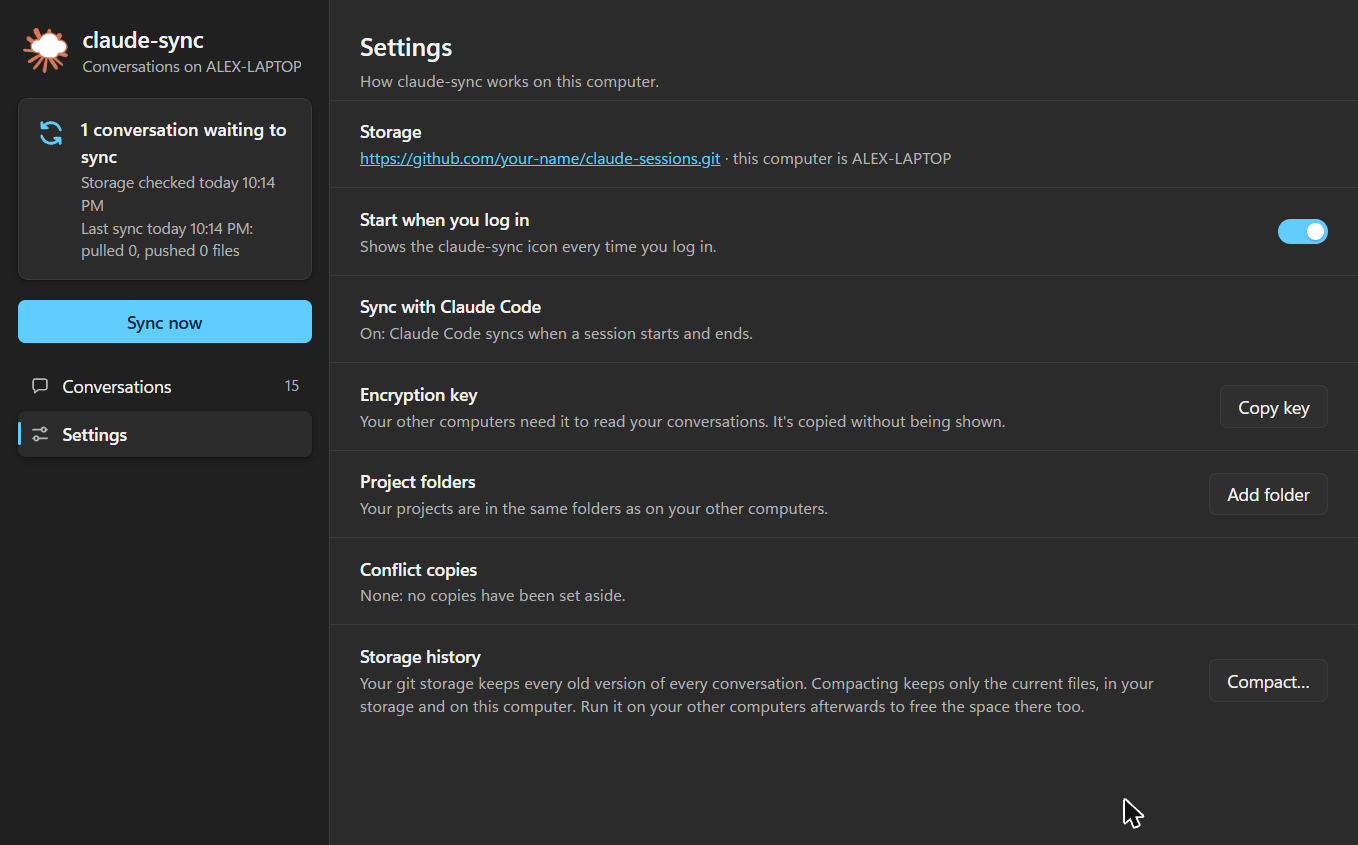
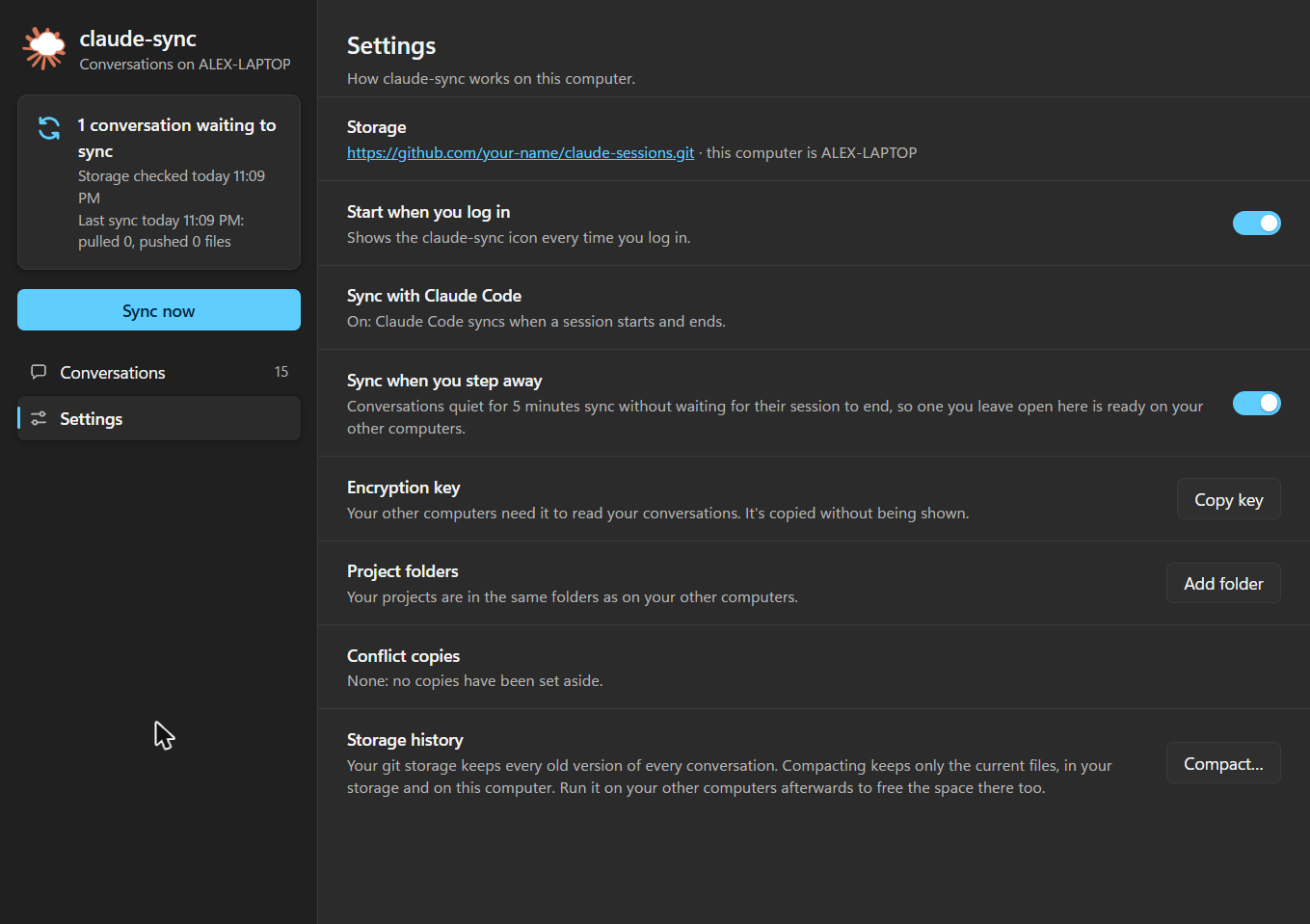
Sync conversations left open once they've been quiet for 5 minutes

diff --git a/src/commands/tray.ts b/src/commands/tray.ts
@@ -14,14 +14,18 @@ import { disableAutostart, enableAutostart } from "../tray/autostart.js";
 import { TRAY_UNSUPPORTED, trayHelper } from "../tray/helpers.js";
 import { TRAY_ICONS } from "../tray/icons.js";
 import { clearTrayInfo, runningTray, saveTrayInfo } from "../tray/instance.js";
+import { idleSyncDue, RETRY_MS, type IdleSync } from "../tray/idle.js";
 import { trayStatus } from "../tray/status.js";
 import { startDashboardServer } from "./dashboard.js";
+import { lastUnsyncedChange } from "./sync.js";
 
 const TRAY_DIR = path.join(homedir(), ".claude-sync", "tray");
 const LOG_FILE = path.join(TRAY_DIR, "tray.log");
 const CLI = fileURLToPath(new URL("../cli.js", import.meta.url));
 // Often enough to show a hook's sync while it runs, cheap enough to go unnoticed
 const POLL_MS = 2000;
+// How often to look for conversations that went quiet without their session ending
+const IDLE_CHECK_MS = 60_000;
 
 interface TrayOptions {
   /** Run in this process instead of starting a background one */
@@ -142,11 +146,13 @@ async function runTray(config: Config | null): Promise<void> {
   const child = spawn(helper.command, helper.args, { stdio: "pipe", windowsHide: true });
 
   let timer: NodeJS.Timeout | undefined;
+  let idleTimer: NodeJS.Timeout | undefined;
   let quitting = false;
   const quit = async (code = 0) => {
     if (quitting) return;
     quitting = true;
     clearInterval(timer);
+    clearInterval(idleTimer);
     child.stdin.end();
     await clearTrayInfo(process.pid);
     process.exit(code);
@@ -185,7 +191,26 @@ async function runTray(config: Config | null): Promise<void> {
     }
   });
 
+  // Hooks sync when a session starts and ends; a conversation left open, say when
+  // you walk away from this computer, syncs once it has been quiet for a while
+  const idle: IdleSync = { handled: 0, retryAt: 0 };
+  const syncWhenIdle = async () => {
+    const config = await loadConfig();
+    if (!config?.initialized || config.syncWhenIdle === false || server.isSyncing()) return;
+    const lastChange = await lastUnsyncedChange(config);
+    if (!idleSyncDue(lastChange, idle)) return;
+    const result = await server.sync();
+    // A hook's sync was running: look again next time
+    if (result.busy) return;
+    if (result.error) idle.retryAt = Date.now() + RETRY_MS;
+    else idle.handled = lastChange;
+  };
+
   timer = setInterval(() => void update(), POLL_MS);
+  idleTimer = setInterval(
+    () => void syncWhenIdle().catch((error) => log(`Sync when idle: ${(error as Error).message}`)),
+    IDLE_CHECK_MS
+  );
   void update();
 
   for (const signal of ["SIGINT", "SIGTERM"] as const) process.on(signal, () => void quit());

diff --git a/src/commands/dashboard-page.ts b/src/commands/dashboard-page.ts
@@ -708,6 +708,15 @@ const PAGE = String.raw`<!doctype html>
     });
     startup.checked = s.startAtLogin;
 
+    const idle = el("input", {
+      type: "checkbox", class: "switch", role: "switch", "aria-label": "Sync when you step away",
+      onchange: (event) => act("/api/idle-sync", { enabled: event.target.checked },
+        event.target.checked ? "Quiet conversations will sync on their own" : "Conversations will sync when sessions start and end"),
+    });
+    idle.checked = s.syncWhenIdle;
+    const idleText = "Conversations quiet for 5 minutes sync without waiting for their session to end, so one you leave open here is ready on your other computers." +
+      (s.iconRunning ? "" : " The claude-sync icon does this, and it isn't running.");
+
     const hooks = s.hooks;
     const hooksText = hooks.state === "missing"
       ? "Off: Claude Code doesn't sync when sessions start and end. Repair turns it on."
@@ -736,6 +745,7 @@ const PAGE = String.raw`<!doctype html>
       setting("Start when you log in", [el("p", { text: "Shows the claude-sync icon every time you log in." })], startup),
       setting("Sync with Claude Code", [el("p", { class: hooksOk ? "" : "warn-text", text: hooksText })],
         hooksOk ? null : button("Repair", () => act("/api/hooks", {}, "Claude Code will sync when sessions start and end"))),
+      setting("Sync when you step away", [el("p", { text: idleText })], idle),
       setting("Encryption key", [el("p", { text: "Your other computers need it to read your conversations. It's copied without being shown." })],
         button("Copy key", copyKey)),
       folderSetting(s.folders),

diff --git a/src/commands/__tests__/two-machines.test.ts b/src/commands/__tests__/two-machines.test.ts
@@ -23,6 +23,7 @@ function machine(dir: string, name: string) {
     return String(result.stdout);
   };
   return {
+    config: () => JSON.parse(fs.readFileSync(path.join(home, ".claude-sync", "config.json"), "utf-8")),
     transcript: path.join(home, ".claude", "projects", encode(path.join(home, "code", "app")), `${SESSION}.jsonl`),
     run(args: string[], input?: string): string {
       return check(spawnSync(process.execPath, [CLI, ...args], { env, input, encoding: "utf-8" }), args.join(" "));
@@ -184,5 +185,21 @@ describe.skipIf(!fs.existsSync(CLI))("two machines", () => {
 
     a.call("syncSilently", [KEY]);
     expect(contents(a.transcript)).toEqual(["message 1", "message 2"]);
+  });
+
+  it("notice a conversation that changed but hasn't synced, for syncing when idle", { timeout: 120_000 }, () => {
+    const { a } = setUp("idle");
+    expect(a.call("lastUnsyncedChange", a.config())).toBe(0);
+
+    // Left open: written to, with no session end to sync it
+    fs.appendFileSync(a.transcript, `${message(3)}\n`);
+    expect(a.call("lastUnsyncedChange", a.config())).toBe(fs.statSync(a.transcript).mtimeMs);
+
+    // A project that doesn't sync here has nothing to wait for
+    const unselected = { ...a.config(), selection: { projects: { "@home-code-app": false }, conversations: {} } };
+    expect(a.call("lastUnsyncedChange", unselected)).toBe(0);
+
+    a.run(["sync"]);
+    expect(a.call("lastUnsyncedChange", a.config())).toBe(0);
   });
 });

diff --git a/src/commands/sync.ts b/src/commands/sync.ts
@@ -5,7 +5,7 @@ import { homedir } from "os";
 import ora from "ora";
 import chalk from "chalk";
 import { encrypt, decryptBuffer, ENCRYPTION_OVERHEAD } from "../crypto/encrypt.js";
-import { getBackend, type Backend } from "../backends/index.js";
+import { getBackend, type Backend, type Config } from "../backends/index.js";
 import { loadConfig } from "../utils/config.js";
 import {
   loadManifest,
@@ -386,6 +386,24 @@ export async function pull(options: SyncOptions): Promise<void> {
  */
 export function syncSilently(restore?: string[]): Promise<SyncResult> {
   return run({ silent: true, restore }, true);
+}
+
+/**
+ * When the newest change that hasn't synced yet was written (ms since the epoch), or
+ * 0 when everything this machine syncs is up to date. Reads only file stats, so the
+ * icon can check it often.
+ */
+export async function lastUnsyncedChange(config: Config): Promise<number> {
+  const manifest = await loadManifest();
+  let newest = 0;
+  for (const file of await findLocalFiles(homedir(), toFolderMappings(config.folders))) {
+    if (!isSelected(file.remotePath, config.selection)) continue;
+    const stat = await fs.stat(file.absPath).catch(() => null);
+    const entry = manifest[file.remotePath];
+    if (!stat || (entry && entry.size === stat.size && entry.mtime === stat.mtimeMs)) continue;
+    newest = Math.max(newest, stat.mtimeMs);
+  }
+  return newest;
 }
 
 export interface CompactResult {

diff --git a/src/tray/__tests__/tray.test.ts b/src/tray/__tests__/tray.test.ts
@@ -2,6 +2,7 @@ import path from "path";
 import { describe, it, expect } from "vitest";
 import { autostartFile, desktopEntry, launchAgent } from "../autostart.js";
 import { trayHelper } from "../helpers.js";
+import { IDLE_MS, idleSyncDue, RETRY_MS } from "../idle.js";
 import { TRAY_ICONS } from "../icons.js";
 import { trayStatus } from "../status.js";
 
@@ -32,6 +33,24 @@ describe("trayStatus", () => {
     expect(status.status).toMatch(/^Up to date · synced /);
     expect(status.tooltip.length).toBeLessThanOrEqual(63);
     expect(trayStatus(false, null).status).toBe("Not synced yet");
+  });
+});
+
+describe("idleSyncDue", () => {
+  const now = 10 * IDLE_MS;
+  const fresh = { handled: 0, retryAt: 0 };
+
+  it("waits until changes have been quiet for a while", () => {
+    expect(idleSyncDue(0, fresh, now)).toBe(false);
+    expect(idleSyncDue(now - IDLE_MS + 1000, fresh, now)).toBe(false);
+    expect(idleSyncDue(now - IDLE_MS, fresh, now)).toBe(true);
+  });
+
+  it("syncs a change once, and backs off after a failure", () => {
+    const quiet = now - IDLE_MS;
+    expect(idleSyncDue(quiet, { handled: quiet, retryAt: 0 }, now)).toBe(false);
+    expect(idleSyncDue(quiet, { handled: quiet - 1, retryAt: 0 }, now)).toBe(true);
+    expect(idleSyncDue(quiet, { handled: 0, retryAt: now + RETRY_MS }, now)).toBe(false);
   });
 });
 

diff --git a/src/commands/dashboard.ts b/src/commands/dashboard.ts
@@ -131,6 +131,9 @@ export async function startDashboardServer(
       settings: {
         startAtLogin: await isAutostartEnabled(),
         hooks: await hooksStatus(),
+        syncWhenIdle: current.syncWhenIdle !== false,
+        // Syncing when idle is the icon's job
+        iconRunning: !!options.hostedByTray || !!(await runningTray()),
         folders: Object.entries(current.folders ?? {}).map(([other, here]) => ({ other, here })),
         conflicts: conflicts.length,
         canCompact: current.backend === "git",
@@ -180,6 +183,10 @@ export async function startDashboardServer(
       await setStartAtLogin(enabled);
     }],
     ["/api/hooks", () => installHooks()],
+    ["/api/idle-sync", async ({ enabled }) => {
+      if (typeof enabled !== "boolean") throw new HttpError(400, "Expected { enabled }");
+      await saveConfig({ ...(await requireConfig()), syncWhenIdle: enabled });
+    }],
     // The page puts it on the clipboard without showing it
     ["/api/key", async () => ({ key: await exportKey() })],
     ["/api/folders/add", async ({ other, here }) => {

diff --git a/src/tray/idle.ts b/src/tray/idle.ts
@@ -1,0 +1,20 @@
+/** How long conversations stay quiet before the icon syncs them */
+export const IDLE_MS = 5 * 60_000;
+/** After a sync when idle fails, how long until the icon tries again */
+export const RETRY_MS = 15 * 60_000;
+
+export interface IdleSync {
+  /** The newest change a sync when idle already took care of */
+  handled: number;
+  /** No new attempt before this, after a failed one */
+  retryAt: number;
+}
+
+/**
+ * Whether the icon should sync now: something changed since the last sync, nothing
+ * has been written for IDLE_MS, and that change wasn't synced already. A change a sync
+ * leaves behind (a file too big for the storage, say) isn't retried every minute.
+ */
+export function idleSyncDue(lastChange: number, idle: IdleSync, now = Date.now()): boolean {
+  return lastChange > idle.handled && now - lastChange >= IDLE_MS && now >= idle.retryAt;
+}

diff --git a/src/backends/index.ts b/src/backends/index.ts
@@ -40,6 +40,8 @@ export interface Config {
   folders?: Record<string, string>;
   /** Projects and conversations this machine doesn't sync */
   selection?: Selection;
+  /** False to stop the icon syncing conversations once they go quiet */
+  syncWhenIdle?: boolean;
 }
 
 export async function getBackend(config: Config): Promise<Backend> {

diff --git a/docs/dashboard.md b/docs/dashboard.md
@@ -27,6 +27,8 @@ It shows how things stand at a glance, including syncs Claude Code starts when a
 
 Click it to open the dashboard. Its menu shows the status, **Sync now** and **Quit**.
 
+It also syncs a conversation you leave open once it has been quiet for 5 minutes, so walking away from one computer without closing Claude Code doesn't keep it from your others.
+
 ## Choose what syncs
 
 Every project and conversation on this machine or in your storage, with its latest message, size and state: up to date, waiting to upload or download, only in storage, or not syncing here.
@@ -51,6 +53,7 @@ Delete one conversation from its row, or every conversation with no message for 
 - **Storage**: a link to your repository or bucket.
 - **Start when you log in**: the icon at every login.
 - **Sync with Claude Code**: whether the hooks are installed and still work, with **Repair** if not.
+- **Sync when you step away**: the icon syncing conversations that have been quiet for 5 minutes, on by default.
 - **Encryption key**: copied for your other machine, never shown on screen.
 - **Project folders**: [folder mappings](../README.md#restoring-into-the-right-project) between machines.
 - **Conflict copies**: copies set aside when two machines changed the same file.
